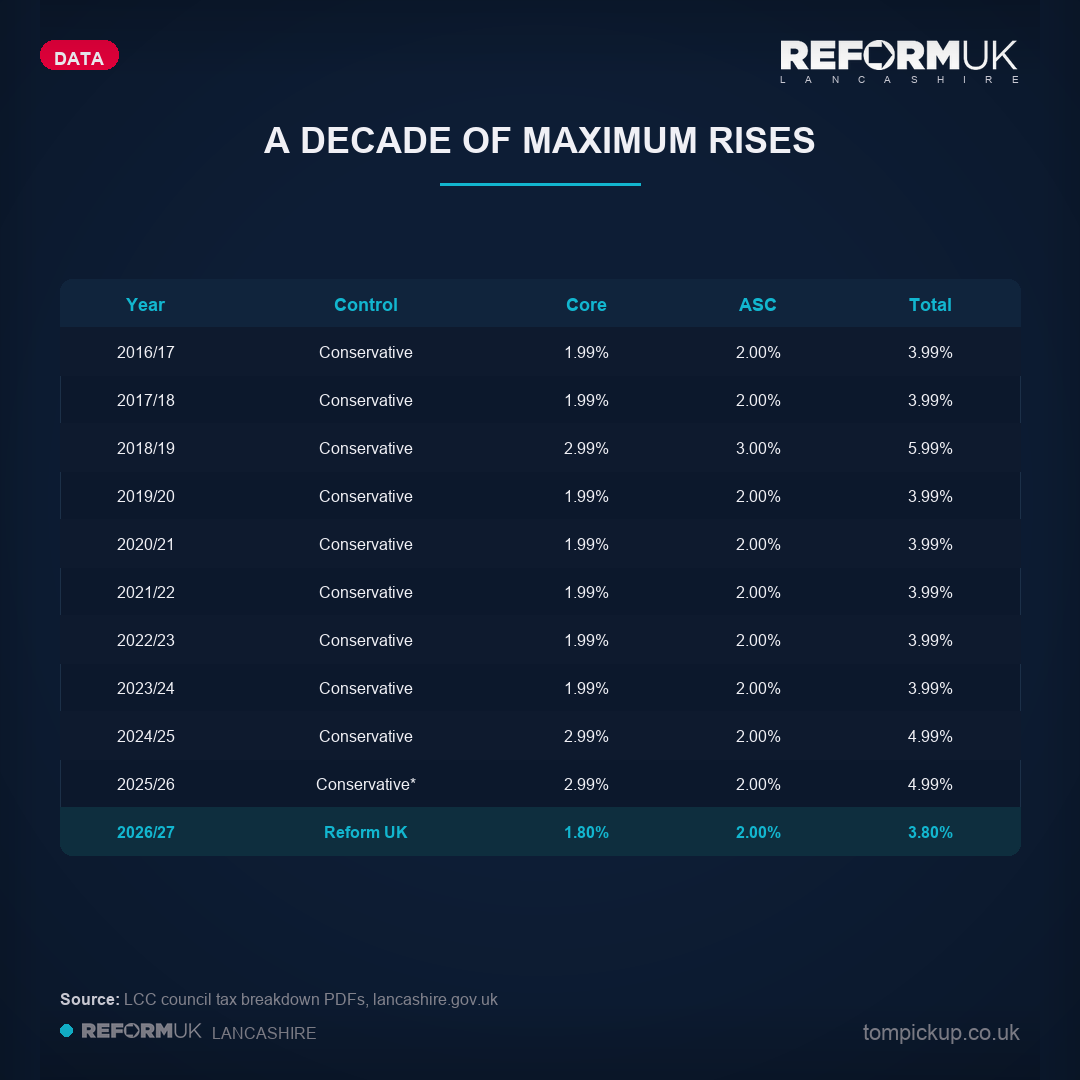
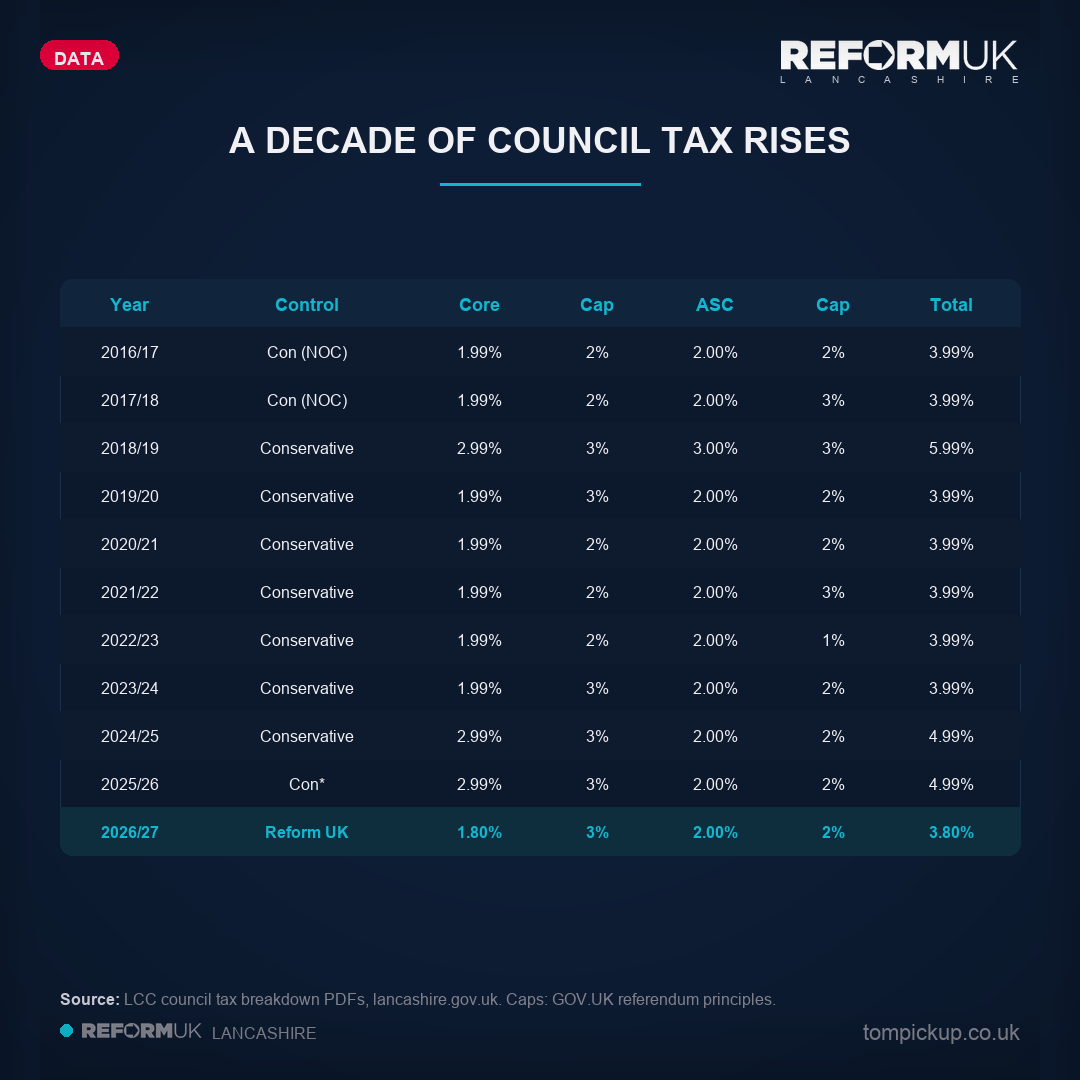
fix: Correct shareable images, Reform row teal highlight, table mobile scroll
- Update decade-of-rises image: "A Decade of Council Tax Rises" (was "Maximum"), add caps + NOC labels
- Update reform-choice image: accurate sublabel for Conservative core rate
- Update 9-months council-tax-table image: NOC labels, corrected title
- Replace markdown decade table with HTML table for Reform row teal styling
- Add .reform-row CSS (teal text + subtle background highlight)
- Fix mobile table: table-layout auto with horizontal scroll (was fixed causing overlap)
- Remove duplicate bin lorry AI mention in 9-months article
- Fix cross-reference wording in 9-months article

diff --git a/scripts/generate_image.py b/scripts/generate_image.py
@@ -802,13 +802,13 @@ ARTICLE_SHAREABLE_PRESETS = {
             {
                 'slug': 'council-tax-table',
                 'type': 'table',
-                'title': 'Council Tax: 10 Years of Maximum Rises',
+                'title': 'Council Tax: A Decade of Rises',
                 'source': 'LCC council tax breakdown PDFs, lancashire.gov.uk',
                 'data': {
                     'headers': ['Year', 'Control', 'Total Rise'],
                     'rows': [
-                        ['2016/17', 'Conservative', '3.99%'],
-                        ['2017/18', 'Conservative', '3.99%'],
+                        ['2016/17', 'Con (NOC)', '3.99%'],
+                        ['2017/18', 'Con (NOC)', '3.99%'],
                         ['2018/19', 'Conservative', '5.99%'],
                         ['2019/20', 'Conservative', '3.99%'],
                         ['2020/21', 'Conservative', '3.99%'],
@@ -816,7 +816,7 @@ ARTICLE_SHAREABLE_PRESETS = {
                         ['2022/23', 'Conservative', '3.99%'],
                         ['2023/24', 'Conservative', '3.99%'],
                         ['2024/25', 'Conservative', '4.99%'],
-                        ['2025/26', 'Conservative*', '4.99%'],
+                        ['2025/26', 'Con*', '4.99%'],
                         ['2026/27', 'Reform UK', '3.80%'],
                     ],
                     'highlight_rows': [10],
@@ -878,25 +878,25 @@ ARTICLE_SHAREABLE_PRESETS = {
             {
                 'slug': 'decade-of-rises',
                 'type': 'table',
-                'title': 'A Decade of Maximum Rises',
-                'source': 'LCC council tax breakdown PDFs, lancashire.gov.uk',
+                'title': 'A Decade of Council Tax Rises',
+                'source': 'LCC council tax breakdown PDFs, lancashire.gov.uk. Caps: GOV.UK referendum principles.',
                 'data': {
-                    'headers': ['Year', 'Control', 'Core', 'ASC', 'Total'],
+                    'headers': ['Year', 'Control', 'Core', 'Cap', 'ASC', 'Cap', 'Total'],
                     'rows': [
-                        ['2016/17', 'Conservative', '1.99%', '2.00%', '3.99%'],
-                        ['2017/18', 'Conservative', '1.99%', '2.00%', '3.99%'],
-                        ['2018/19', 'Conservative', '2.99%', '3.00%', '5.99%'],
-                        ['2019/20', 'Conservative', '1.99%', '2.00%', '3.99%'],
-                        ['2020/21', 'Conservative', '1.99%', '2.00%', '3.99%'],
-                        ['2021/22', 'Conservative', '1.99%', '2.00%', '3.99%'],
-                        ['2022/23', 'Conservative', '1.99%', '2.00%', '3.99%'],
-                        ['2023/24', 'Conservative', '1.99%', '2.00%', '3.99%'],
-                        ['2024/25', 'Conservative', '2.99%', '2.00%', '4.99%'],
-                        ['2025/26', 'Conservative*', '2.99%', '2.00%', '4.99%'],
-                        ['2026/27', 'Reform UK', '1.80%', '2.00%', '3.80%'],
+                        ['2016/17', 'Con (NOC)', '1.99%', '2%', '2.00%', '2%', '3.99%'],
+                        ['2017/18', 'Con (NOC)', '1.99%', '2%', '2.00%', '3%', '3.99%'],
+                        ['2018/19', 'Conservative', '2.99%', '3%', '3.00%', '3%', '5.99%'],
+                        ['2019/20', 'Conservative', '1.99%', '3%', '2.00%', '2%', '3.99%'],
+                        ['2020/21', 'Conservative', '1.99%', '2%', '2.00%', '2%', '3.99%'],
+                        ['2021/22', 'Conservative', '1.99%', '2%', '2.00%', '3%', '3.99%'],
+                        ['2022/23', 'Conservative', '1.99%', '2%', '2.00%', '1%', '3.99%'],
+                        ['2023/24', 'Conservative', '1.99%', '3%', '2.00%', '2%', '3.99%'],
+                        ['2024/25', 'Conservative', '2.99%', '3%', '2.00%', '2%', '4.99%'],
+                        ['2025/26', 'Con*', '2.99%', '3%', '2.00%', '2%', '4.99%'],
+                        ['2026/27', 'Reform UK', '1.80%', '3%', '2.00%', '2%', '3.80%'],
                     ],
                     'highlight_rows': [10],
-                    'col_weights': [0.18, 0.28, 0.18, 0.18, 0.18],
+                    'col_weights': [0.13, 0.20, 0.12, 0.10, 0.12, 0.10, 0.12],
                 },
             },
             {
@@ -905,7 +905,7 @@ ARTICLE_SHAREABLE_PRESETS = {
                 'title': 'The Reform Choice: Core Council Tax',
                 'source': 'LCC Budget Book 2026/27',
                 'data': {
-                    'before': {'value': '2.99%', 'label': 'Conservative Core', 'sublabel': 'Maximum allowed. Every year.'},
+                    'before': {'value': '2.99%', 'label': 'Conservative Core', 'sublabel': 'Hit the cap in 2024/25 and 2025/26.'},
                     'after': {'value': '1.80%', 'label': 'Reform Core', 'sublabel': '1.19% below the cap.'},
                 },
             },

diff --git a/src/content/news/lancashire-council-tax-breakdown.md b/src/content/news/lancashire-council-tax-breakdown.md
@@ -135,19 +135,24 @@ The Conservatives used the full ASC precept AND hit the core cap too. Their tota
 
 For ten consecutive years under Conservative-led administrations, council tax rose every single year. The table below shows the core rate, ASC precept, and the government referendum cap for each year.
 
-| Year | Control | Core Rise | Core Cap | ASC Rise | ASC Cap | Total |
-|------|---------|-----------|----------|----------|---------|-------|
-| 2016/17 | Conservative (NOC) | 1.99% | 2% | 2.00% | 2% | 3.99% |
-| 2017/18 | Conservative (NOC) | 1.99% | 2% | 2.00% | 3% | 3.99% |
-| 2018/19 | Conservative | 2.99% | 3% | 3.00% | 3% | **5.99%** |
-| 2019/20 | Conservative | 1.99% | 3% | 2.00% | 2% | 3.99% |
-| 2020/21 | Conservative | 1.99% | 2% | 2.00% | 2% | 3.99% |
-| 2021/22 | Conservative | 1.99% | 2% | 2.00% | 3% | 3.99% |
-| 2022/23 | Conservative | 1.99% | 2% | 2.00% | 1% | 3.99% |
-| 2023/24 | Conservative | 1.99% | 3% | 2.00% | 2% | 3.99% |
-| 2024/25 | Conservative | 2.99% | 3% | 2.00% | 2% | **4.99%** |
-| 2025/26 | Conservative* | 2.99% | 3% | 2.00% | 2% | **4.99%** |
-| <span style="color: #12b6cf;">**2026/27**</span> | <span style="color: #12b6cf;">**Reform UK**</span> | <span style="color: #12b6cf;">**1.80%**</span> | <span style="color: #12b6cf;">**3%**</span> | <span style="color: #12b6cf;">**2.00%**</span> | <span style="color: #12b6cf;">**2%**</span> | <span style="color: #12b6cf;">**3.80%**</span> |
+<table>
+<thead>
+<tr><th>Year</th><th>Control</th><th>Core Rise</th><th>Core Cap</th><th>ASC Rise</th><th>ASC Cap</th><th>Total</th></tr>
+</thead>
+<tbody>
+<tr><td>2016/17</td><td>Conservative (NOC)</td><td>1.99%</td><td>2%</td><td>2.00%</td><td>2%</td><td>3.99%</td></tr>
+<tr><td>2017/18</td><td>Conservative (NOC)</td><td>1.99%</td><td>2%</td><td>2.00%</td><td>3%</td><td>3.99%</td></tr>
+<tr><td>2018/19</td><td>Conservative</td><td>2.99%</td><td>3%</td><td>3.00%</td><td>3%</td><td><strong>5.99%</strong></td></tr>
+<tr><td>2019/20</td><td>Conservative</td><td>1.99%</td><td>3%</td><td>2.00%</td><td>2%</td><td>3.99%</td></tr>
+<tr><td>2020/21</td><td>Conservative</td><td>1.99%</td><td>2%</td><td>2.00%</td><td>2%</td><td>3.99%</td></tr>
+<tr><td>2021/22</td><td>Conservative</td><td>1.99%</td><td>2%</td><td>2.00%</td><td>3%</td><td>3.99%</td></tr>
+<tr><td>2022/23</td><td>Conservative</td><td>1.99%</td><td>2%</td><td>2.00%</td><td>1%</td><td>3.99%</td></tr>
+<tr><td>2023/24</td><td>Conservative</td><td>1.99%</td><td>3%</td><td>2.00%</td><td>2%</td><td>3.99%</td></tr>
+<tr><td>2024/25</td><td>Conservative</td><td>2.99%</td><td>3%</td><td>2.00%</td><td>2%</td><td><strong>4.99%</strong></td></tr>
+<tr><td>2025/26</td><td>Conservative*</td><td>2.99%</td><td>3%</td><td>2.00%</td><td>2%</td><td><strong>4.99%</strong></td></tr>
+<tr class="reform-row"><td><strong>2026/27</strong></td><td><strong>Reform UK</strong></td><td><strong>1.80%</strong></td><td><strong>3%</strong></td><td><strong>2.00%</strong></td><td><strong>2%</strong></td><td><strong>3.80%</strong></td></tr>
+</tbody>
+</table>
 
 *2016/17 and 2017/18 budgets were set by Conservative-led No Overall Control administrations. 2025/26 budget was set by the outgoing Conservative administration before the May 2025 election.*
 

diff --git a/src/content/news/reform-lancashire-9-months.md b/src/content/news/reform-lancashire-9-months.md
@@ -207,7 +207,7 @@ To understand how fixable this is, consider what Westminster chooses to spend el
 
 *Sources: House of Commons Library (ODA), Home Office (asylum accommodation), Full Fact (Chagos NPV), Construction Enquirer (HS2), ALARM Survey 2026 (national backlog).*
 
-Reform is doing what it can within the budget. A three-year **£45 million resurfacing programme** targets the 100 worst roads. AI-equipped sensors on bin lorries scan road surfaces during normal collection rounds, identifying defects before they become complaints.
+Reform is doing what it can within the budget. A three-year **£45 million resurfacing programme** targets the 100 worst roads.
 
 <div class="viz-panel-reform">
 <div class="viz-label teal">Westminster Waste vs Lancashire Roads</div>
@@ -264,7 +264,7 @@ But the trajectory has changed. We reversed the 4.99% rot with the lowest counci
 
 We are just getting started.
 
-The next article in this series will break down exactly where your council tax goes, band by band, line by line.
+The next article in this series breaks down exactly where your council tax goes.
 
 <div class="viz-callout">
 <p style="font-size: 1.125rem; font-weight: 600; color: #f0f0f5; margin: 0 0 8px;">Every figure in this article is sourced to official Lancashire County Council records.</p>
